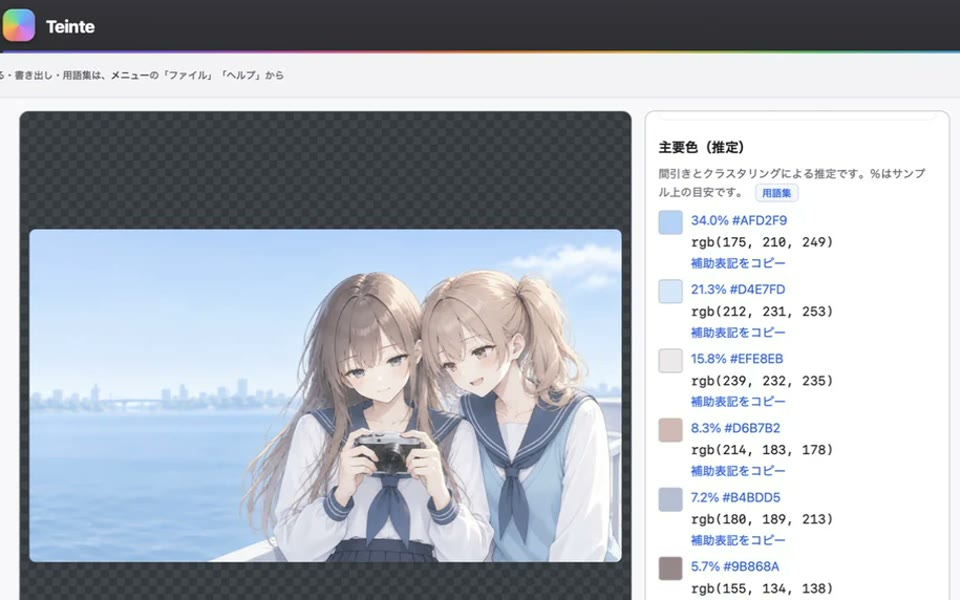
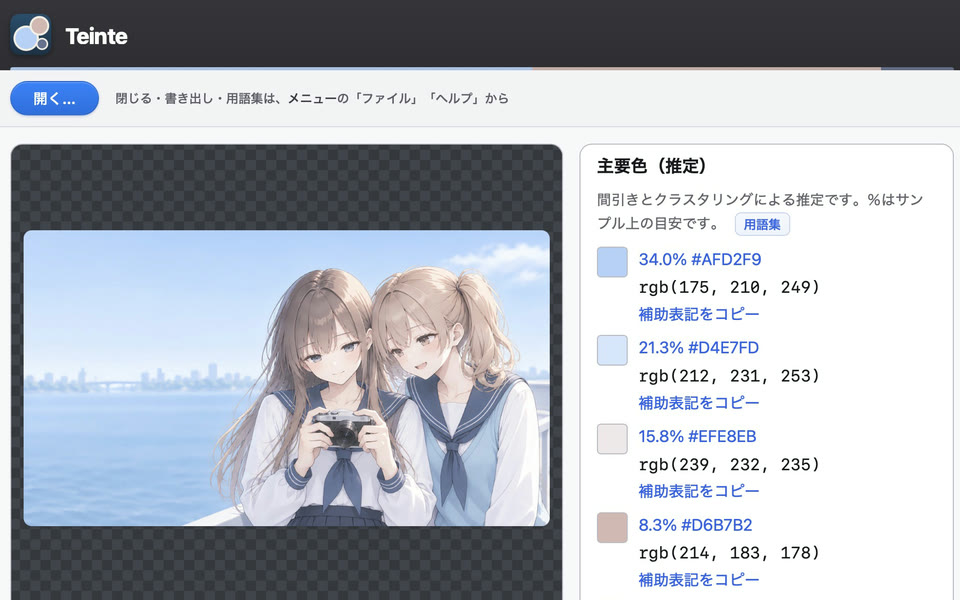
zenpix・teinte の見出しにアイコン（新しいロゴ）を付け、teinte の写真を新しい見出しの版に撮り直す

diff --git a/README.md b/README.md
@@ -62,14 +62,14 @@
 <tr>
 <td width="50%" valign="top">
 <a href="https://tsukasa-art.com/projects/zenpix/"><img src="./assets/zenpix.jpg" alt="zenpix のブラウザ版で一枚絵を AVIF に変換した結果"></a>
-<h3>zenpix</h3>
+<h3><a href="https://tsukasa-art.com/projects/zenpix/"><img src="./assets/icon-zenpix.svg" width="28" height="28" align="top" alt=""></a>&nbsp;zenpix</h3>
 <b>8.9 MB の絵が、91 KB に。</b><br>
 C 製の画像変換ライブラリ。読み込み・縮小・AVIF / WebP への書き出しを、コマンド・Node.js・Bun・Deno・ブラウザ（WASM）から使えます。このサイトの画像も zenpix で変換しています。<br><br>
 <a href="https://tsukasa-art.com/projects/zenpix/">事例を見る</a> · <a href="https://zenpix.tsukasa-art.com/">ドキュメント</a> · <a href="https://www.npmjs.com/package/zenpix">npm</a> · <a href="https://github.com/tsukasa-art/zenpix">GitHub</a>
 </td>
 <td width="50%" valign="top">
 <a href="https://tsukasa-art.com/projects/teinte/"><img src="./assets/teinte.jpg" alt="teinte で一枚絵の主要色を出した画面"></a>
-<h3>teinte</h3>
+<h3><a href="https://tsukasa-art.com/projects/teinte/"><img src="./assets/icon-teinte.svg" width="28" height="28" align="top" alt=""></a>&nbsp;teinte</h3>
 <b>絵の色を、数値と名前で並べる。</b><br>
 画像から主要色を取り出し、Open Color・Tailwind の近い色名と、配色の役割（ベース・アソート・アクセント）を出すデスクトップアプリ。Vue と Rust、Tauri で作っています。<br><br>
 <a href="https://tsukasa-art.com/projects/teinte/">事例を見る</a> · <a href="https://github.com/tsukasa-art/teinte">GitHub</a>

diff --git a/README.en.md b/README.en.md
@@ -62,14 +62,14 @@ From symptoms like "only the video is white" or "the save image is black", each 
 <tr>
 <td width="50%" valign="top">
 <a href="https://tsukasa-art.com/projects/zenpix/"><img src="./assets/zenpix.jpg" alt="Result of converting an illustration to AVIF in zenpix's browser demo"></a>
-<h3>zenpix</h3>
+<h3><a href="https://tsukasa-art.com/projects/zenpix/"><img src="./assets/icon-zenpix.svg" width="28" height="28" align="top" alt=""></a>&nbsp;zenpix</h3>
 <b>An 8.9 MB artwork, down to 91 KB.</b><br>
 An image conversion library written in C. Decoding, resizing, and AVIF / WebP encoding are available from the CLI, Node.js, Bun, Deno, and the browser (WASM). The images on my portfolio are converted with it.<br><br>
 <a href="https://tsukasa-art.com/projects/zenpix/">Case study</a> · <a href="https://zenpix.tsukasa-art.com/">Docs</a> · <a href="https://www.npmjs.com/package/zenpix">npm</a> · <a href="https://github.com/tsukasa-art/zenpix">GitHub</a>
 </td>
 <td width="50%" valign="top">
 <a href="https://tsukasa-art.com/projects/teinte/"><img src="./assets/teinte.jpg" alt="teinte showing the main colors of an illustration"></a>
-<h3>teinte</h3>
+<h3><a href="https://tsukasa-art.com/projects/teinte/"><img src="./assets/icon-teinte.svg" width="28" height="28" align="top" alt=""></a>&nbsp;teinte</h3>
 <b>Put the colors of an artwork into numbers and names.</b><br>
 A desktop app that extracts the main colors of an image, finds the nearest Open Color and Tailwind names, and sorts them into base, assort, and accent roles. Built with Vue, Rust, and Tauri.<br><br>
 <a href="https://tsukasa-art.com/projects/teinte/">Case study</a> · <a href="https://github.com/tsukasa-art/teinte">GitHub</a>
